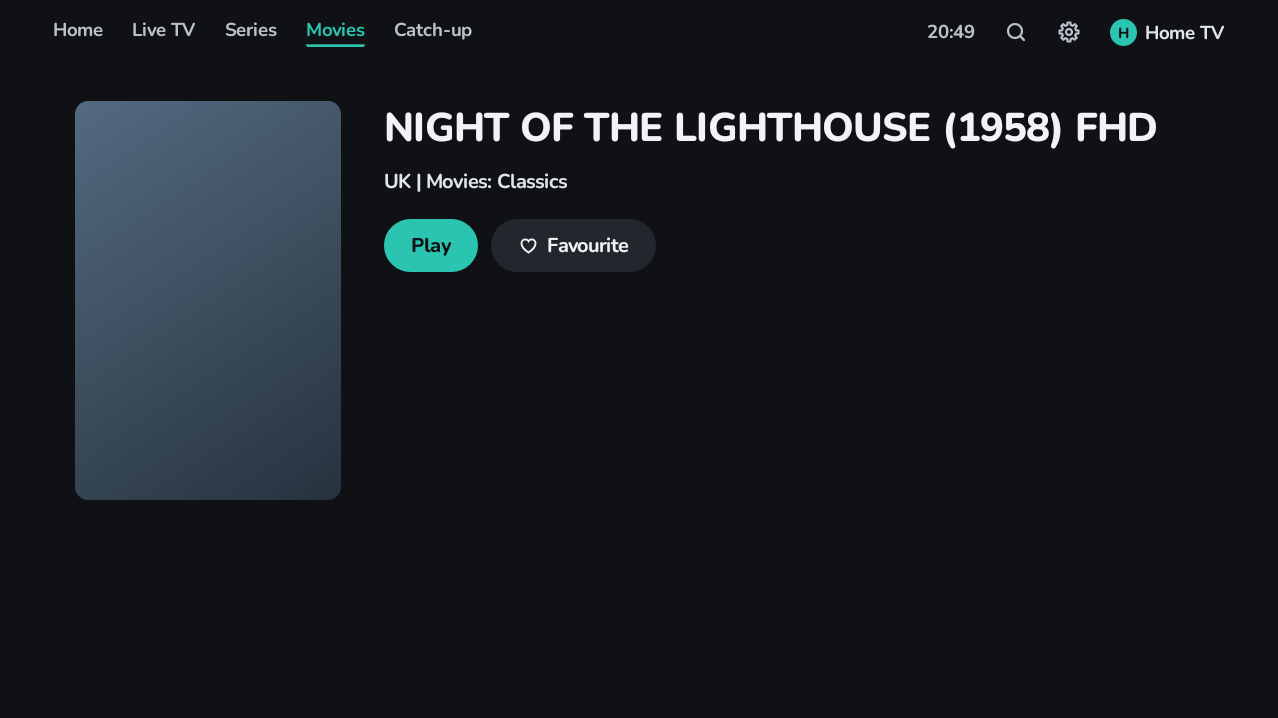
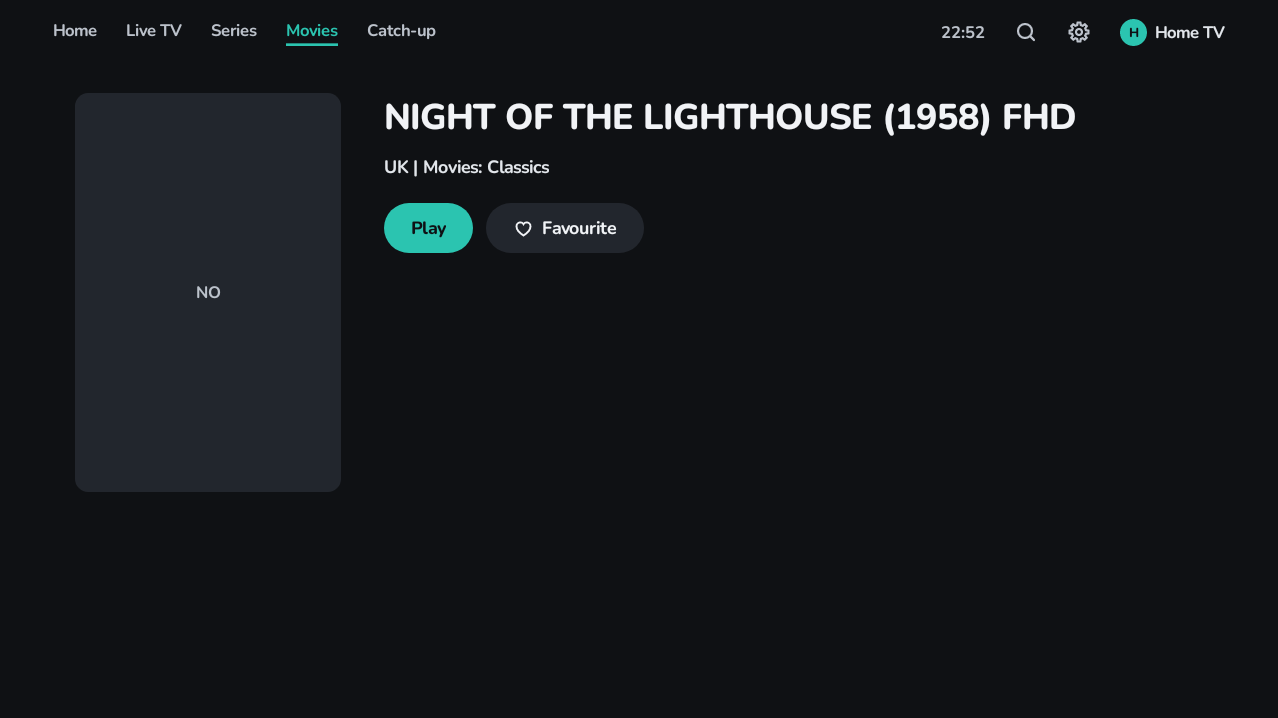
Top bar focus fill, smaller gap and board text, scrolling category names (1.13.2)
- Top bar: the item with focus is a pill filled with the accent colour,
  with no ring, as the film and series pages' buttons are. BarItem uses
  TvCard (transparent, accent when focused, ring = false), and its text
  and icons read LocalCardFocused for the accent's text colour. The
  playlist initial swaps its colours on the fill.
- The gap under the top bar is 22 board px (was 28): half way between
  the gap before the redesign and after it, measured on Home (the first
  heading at 94 px before, 109 px after, now about 101 px). All screens
  use TabScaffoldGap, so it stays the same everywhere.
- Category names on Live TV, Movies, Series and Catch-up use OneLine:
  cut short with "…", and scrolling while the row has focus.
- Board text (film and series pages, top bar): normal text is a step
  (1.12) smaller than the boards' sizes, and large text is the boards'
  size. The owner found the boards' size looked like large text.

Tests: TopBarFocusUiTest (the focused tab's edge and padding are the
accent colour; fails with the ring) and CategoryNameScrollUiTest (the
focused name is laid out wider than its row; fails without OneLine).
BoardTextScaleTest is updated for the new sizes.

Claude-Session: https://claude.ai/code/session_01XanGeKN99Wd1hmQc73eoBg

Changed region(s): [[0.061, 0.1226, 0.9155, 0.7047], [0.0305, 0.0306, 0.3662, 0.0919], [0.7324, 0.0306, 0.9765, 0.0613]]

diff --git a/app/src/main/java/com/biskyt/mytvplayer/ui/common/TopBar.kt b/app/src/main/java/com/biskyt/mytvplayer/ui/common/TopBar.kt
@@ -79,8 +79,8 @@ enum class Tab(@param:StringRes val label: Int) {
 
 /**
  * The top bar, as the design boards draw it (2026-11-05): the tabs as text, with the one shown in the accent colour
- * and underlined; then the VPN status, the clock, Search, Settings and the playlist switcher. Each item takes focus
- * with the app's usual ring.
+ * and underlined; then the VPN status, the clock, Search, Settings and the playlist switcher. The item with focus is
+ * filled with the accent colour, with no ring, as the film and series pages' buttons are.
  */
 @Composable
 fun TopBar(selected: Tab?) {
@@ -96,8 +96,8 @@ fun TopBar(selected: Tab?) {
     val hasCatchup by remember(active?.id) { active?.let { container.channels.observeHasCatchup(it.id) } ?: flowOf(false) }
         .collectAsState(initial = false)
     Row(
-        // The board's 40 and 22, less the room each item keeps for its focus ring.
-        Modifier.fillMaxWidth().height(48.bd).padding(horizontal = 40.bd - BAR_RING),
+        // The board's 40 and 22, less the room each item keeps around its text for its focus fill.
+        Modifier.fillMaxWidth().height(48.bd).padding(horizontal = 40.bd - BAR_PAD_H),
         verticalAlignment = Alignment.CenterVertically,
         horizontalArrangement = Arrangement.spacedBy(BAR_GAP)
     ) {
@@ -116,16 +116,20 @@ fun TopBar(selected: Tab?) {
         }
         Box(Modifier.weight(1f))
         settings?.takeIf { it.warnVpn }?.let { VpnStatus(showIp = it.showExternalIp) }
-        Clock(Modifier.padding(BAR_RING), BarText.current, Palette.textDim)
+        Clock(Modifier.padding(horizontal = BAR_PAD_H, vertical = BAR_PAD_V), BarText.current, Palette.textDim)
         BarItem({ nav.open(Screen.Search()) }) { BarIcon(AppIcons.Search, stringResource(R.string.common_search)) }
         BarItem({ nav.open(Screen.Settings) }) { BarIcon(AppIcons.Settings, stringResource(R.string.common_settings)) }
         if (active != null) {
             BarItem({ nav.open(Screen.Playlists) }) {
+                // On the accent fill, the initial's colours swap, so its circle still shows.
+                val focused = LocalCardFocused.current
+                val circle = if (focused) accent.onAccent else accent.color
+                val initial = if (focused) accent.color else accent.onAccent
                 Row(verticalAlignment = Alignment.CenterVertically, horizontalArrangement = Arrangement.spacedBy(6.bd)) {
-                    Box(Modifier.size(20.bd).clip(CircleShape).background(accent.color), contentAlignment = Alignment.Center) {
-                        Text(active.name.take(1).uppercase(), style = InitialText.current, color = accent.onAccent)
+                    Box(Modifier.size(20.bd).clip(CircleShape).background(circle), contentAlignment = Alignment.Center) {
+                        Text(active.name.take(1).uppercase(), style = InitialText.current, color = initial)
                     }
-                    Text(active.name, style = BarText.current, color = Palette.textMuted, maxLines = 1)
+                    Text(active.name, style = BarText.current, color = barContent(Palette.textMuted), maxLines = 1)
                 }
             }
         }
@@ -137,38 +141,49 @@ private val BarText = BoardStyle(14, 700)
 private val InitialText = BoardStyle(11, 800)
 private val VpnText = BoardStyle(13, 700)
 
-/** Room for the focus ring around a top bar item, taken back from the gap between items. */
-private val BAR_RING = 4.bd
-private val BAR_GAP = 22.bd - BAR_RING * 2
+/** Room around a top bar item's text for its focus fill, taken back from the gap between items. */
+private val BAR_PAD_H = 10.bd
+private val BAR_PAD_V = 4.bd
+private val BAR_GAP = 22.bd - BAR_PAD_H * 2
+
+/** A top bar item's text or icon colour: [normal], or the accent's text colour on its focus fill. */
+@Composable
+private fun barContent(normal: Color) = if (LocalCardFocused.current) LocalAccent.current.onAccent else normal
 
 /** A tab's name: the one shown in the accent colour, with a line under it. */
 @Composable
 private fun TabLabel(name: String, current: Boolean) {
-    val accent = LocalAccent.current.color
+    val colour = barContent(if (current) LocalAccent.current.color else Palette.textDim)
     Text(
         name,
         style = BarText.current,
-        color = if (current) accent else Palette.textDim,
+        color = colour,
         maxLines = 1,
         // Every tab has the line's room, so they all line up; only the current one draws it.
         modifier = Modifier.drawBehind {
-            if (current) drawRect(accent, Offset(0f, size.height - 2.bd.toPx()), Size(size.width, 2.bd.toPx()))
+            if (current) drawRect(colour, Offset(0f, size.height - 2.bd.toPx()), Size(size.width, 2.bd.toPx()))
         }.padding(bottom = 3.bd)
     )
 }
 
 @Composable
 private fun BarIcon(icon: ImageVector, label: String) =
-    Icon(icon, contentDescription = label, tint = Palette.textDim, modifier = Modifier.size(18.bd))
+    Icon(icon, contentDescription = label, tint = barContent(Palette.textDim), modifier = Modifier.size(18.bd))
 
 /**
- * A top bar item: drawn as it is, on nothing, and with the app's focus ring around it (a little padding, so the ring
- * does not touch it).
+ * A top bar item: drawn as it is, on nothing. With focus, it is a pill filled with the accent colour, with no ring, as
+ * the film and series pages' buttons are; its content reads that from [LocalCardFocused] (see [barContent]).
  */
 @Composable
 private fun BarItem(onClick: () -> Unit, content: @Composable () -> Unit) {
-    TvCard(onClick = onClick, shape = RoundedCornerShape(50), color = Color.Transparent, focusedColor = Color.Transparent) {
-        Box(Modifier.padding(horizontal = BAR_RING, vertical = BAR_RING)) { content() }
+    TvCard(
+        onClick = onClick,
+        shape = RoundedCornerShape(50),
+        color = Color.Transparent,
+        focusedColor = LocalAccent.current.color,
+        ring = false
+    ) {
+        Box(Modifier.padding(horizontal = BAR_PAD_H, vertical = BAR_PAD_V)) { content() }
     }
 }
 
@@ -187,7 +202,7 @@ private fun VpnStatus(showIp: Boolean) {
     val vertical = if (ip == null) 8.dp else 3.dp
     Row(
         if (connected) {
-            Modifier.padding(BAR_RING)
+            Modifier.padding(horizontal = BAR_PAD_H, vertical = BAR_PAD_V)
         } else {
             Modifier.clip(
                 RoundedCornerShape(50)
@@ -236,8 +251,11 @@ fun Clock(
     Text(formatTime(now), style = style, color = color, modifier = modifier)
 }
 
-/** Between the top bar and the screen below it: page content starts 76 board pixels down (see TopBar). */
-val TabScaffoldGap = 28.bd
+/**
+ * Between the top bar and the screen below it: page content starts 70 board pixels down (see TopBar). The boards say
+ * 76; the owner asked for half way between that and the gap before them (2026-11-05).
+ */
+val TabScaffoldGap = 22.bd
 
 /** On a page drawn behind the top bar (its art showing through), how far down its content must start: 0 without. */
 val LocalTopBarInset = compositionLocalOf { 0.dp }

diff --git a/app/src/test/java/com/biskyt/mytvplayer/ui/CategoryNameScrollUiTest.kt b/app/src/test/java/com/biskyt/mytvplayer/ui/CategoryNameScrollUiTest.kt
@@ -1,0 +1,74 @@
+package com.biskyt.mytvplayer.ui
+
+import androidx.compose.ui.semantics.SemanticsActions
+import androidx.compose.ui.semantics.getOrNull
+import androidx.compose.ui.test.SemanticsNodeInteraction
+import androidx.compose.ui.test.hasClickAction
+import androidx.compose.ui.test.hasText
+import androidx.compose.ui.test.performSemanticsAction
+import androidx.compose.ui.text.TextLayoutResult
+import com.biskyt.mytvplayer.testutil.Navigators
+import com.biskyt.mytvplayer.testutil.TestApp
+import com.biskyt.mytvplayer.testutil.createUiComposeRule
+import com.biskyt.mytvplayer.testutil.waitAdvancingClock
+import com.biskyt.mytvplayer.ui.common.CategoryColumn
+import com.biskyt.mytvplayer.ui.common.CategoryEntry
+import com.biskyt.mytvplayer.ui.theme.MyTvTheme
+import org.junit.Assert.assertFalse
+import org.junit.Assert.assertTrue
+import org.junit.Rule
+import org.junit.Test
+import org.junit.runner.RunWith
+import org.robolectric.RobolectricTestRunner
+import org.robolectric.annotation.Config
+
+/**
+ * A long category name (Live TV, Movies, Series and Catch-up all use [CategoryColumn]) is cut short with "…", and
+ * scrolls to show the rest while its row has focus.
+ */
+@RunWith(RobolectricTestRunner::class)
+@Config(sdk = [34], application = TestApp::class, qualifiers = "+w960dp-h540dp-tvdpi")
+class CategoryNameScrollUiTest {
+    @get:Rule val compose = createUiComposeRule()
+
+    @get:Rule(order = Navigators.ORDER)
+    val navigators = Navigators()
+
+    /** The name's own text layout, and the width of its row's text area. */
+    private fun name(): TextLayoutResult {
+        val layouts = mutableListOf<TextLayoutResult>()
+        compose.onNode(hasText(LONG), useUnmergedTree = true).fetchSemanticsNode()
+            .config.getOrNull(SemanticsActions.GetTextLayoutResult)?.action?.invoke(layouts)
+        return layouts.single()
+    }
+
+    private fun row(): SemanticsNodeInteraction = compose.onNode(hasText(LONG) and hasClickAction())
+
+    @Test
+    fun `a long name is cut short, and laid out in full to scroll while its row has focus`() {
+        compose.setContent {
+            MyTvTheme {
+                CategoryColumn(
+                    entries = listOf(CategoryEntry("short", "News"), CategoryEntry("long", LONG)),
+                    // Selected: coming into the column, focus goes to the selected entry.
+                    selected = "long",
+                    onFocus = {},
+                    onSelect = {}
+                )
+            }
+        }
+        compose.waitAdvancingClock(0) { runCatching { name() }.isSuccess }
+        assertTrue("cut short with … without focus", name().hasVisualOverflow)
+
+        row().performSemanticsAction(SemanticsActions.RequestFocus)
+        compose.waitAdvancingClock(0) { !name().hasVisualOverflow }
+        // Laid out at its full width, wider than the column, for the scroll to show the rest.
+        val rowWidth = row().fetchSemanticsNode().size.width
+        assertFalse(name().hasVisualOverflow)
+        assertTrue("${name().size.width} px wide, in a row of $rowWidth px", name().size.width > rowWidth)
+    }
+
+    private companion object {
+        const val LONG = "UK | ENTERTAINMENT AND DOCUMENTARIES FROM AROUND THE WORLD"
+    }
+}

diff --git a/app/src/test/java/com/biskyt/mytvplayer/ui/TopBarFocusUiTest.kt b/app/src/test/java/com/biskyt/mytvplayer/ui/TopBarFocusUiTest.kt
@@ -1,0 +1,70 @@
+package com.biskyt.mytvplayer.ui
+
+import android.graphics.Bitmap
+import android.graphics.Canvas
+import androidx.activity.ComponentActivity
+import androidx.compose.runtime.CompositionLocalProvider
+import androidx.compose.ui.graphics.Color
+import androidx.compose.ui.graphics.toArgb
+import androidx.compose.ui.semantics.SemanticsActions
+import androidx.compose.ui.test.hasClickAction
+import androidx.compose.ui.test.hasText
+import androidx.compose.ui.test.performSemanticsAction
+import com.biskyt.mytvplayer.testutil.Navigators
+import com.biskyt.mytvplayer.testutil.TestApp
+import com.biskyt.mytvplayer.testutil.createUiComposeRule
+import com.biskyt.mytvplayer.testutil.waitAdvancingClock
+import com.biskyt.mytvplayer.ui.common.Tab
+import com.biskyt.mytvplayer.ui.common.TopBar
+import com.biskyt.mytvplayer.ui.theme.LocalAccent
+import com.biskyt.mytvplayer.ui.theme.MyTvTheme
+import org.junit.Assert.assertEquals
+import org.junit.Rule
+import org.junit.Test
+import org.junit.runner.RunWith
+import org.robolectric.RobolectricTestRunner
+import org.robolectric.annotation.Config
+
+/** A top bar item with focus is filled with the accent colour, with no ring, as the film and series pages' buttons are. */
+@RunWith(RobolectricTestRunner::class)
+@Config(sdk = [34], application = TestApp::class, qualifiers = "+w960dp-h540dp-tvdpi")
+class TopBarFocusUiTest {
+    @get:Rule val compose = createUiComposeRule<ComponentActivity>()
+
+    @get:Rule(order = Navigators.ORDER)
+    val navigators = Navigators()
+
+    @Test
+    fun `the item with focus is filled with the accent colour, to its edge`() {
+        val navigator = navigators.new(Screen.Home)
+        var accent = Color.Unspecified
+        compose.setContent {
+            MyTvTheme {
+                accent = LocalAccent.current.color
+                CompositionLocalProvider(LocalNavigator provides navigator) { TopBar(Tab.HOME) }
+            }
+        }
+        // Not the current tab: its text is not in the accent colour.
+        val live = compose.onNode(hasText("Live TV") and hasClickAction())
+        live.performSemanticsAction(SemanticsActions.RequestFocus)
+        // The test's frame clock moves on, so the item recomposes and redraws with its focus.
+        compose.mainClock.advanceTimeBy(FRAME_MS * 10)
+        compose.waitAdvancingClock { true }
+
+        // Drawn here: captureToImage waits for a frame that the paused main looper never draws.
+        val view = compose.activity.window.decorView
+        val screen = Bitmap.createBitmap(view.width, view.height, Bitmap.Config.ARGB_8888)
+        compose.runOnUiThread { view.draw(Canvas(screen)) }
+        val node = live.fetchSemanticsNode()
+        val middle = (node.positionInRoot.y + node.size.height / 2).toInt()
+        // At its edge (where a ring would be) and in the room before the text: the accent fill.
+        listOf(1, 6).forEach { x ->
+            val pixel = Color(screen.getPixel(node.positionInRoot.x.toInt() + x, middle))
+            assertEquals("pixel $x across", accent.toArgb(), pixel.toArgb())
+        }
+    }
+
+    private companion object {
+        const val FRAME_MS = 20L
+    }
+}

diff --git a/app/src/main/java/com/biskyt/mytvplayer/ui/theme/Board.kt b/app/src/main/java/com/biskyt/mytvplayer/ui/theme/Board.kt
@@ -11,7 +11,7 @@ import androidx.compose.ui.unit.sp
 /**
  * Sizes copied from the design boards (the film and series pages, the top bar). A board is 960 x 540: a 1080p TV in
  * dp. The app lays out on a canvas 1280 wide (see MyTvTheme), so each board size is 4/3 of its value here. The boards'
- * sizes are used as they are, so that the screens match them exactly.
+ * sizes are used as they are, so that the screens match them exactly, except text (see [BoardStyle]).
  */
 private const val BOARD = 1280f / 960f
 
@@ -31,12 +31,13 @@ internal fun boardText(size: Int, weight: Int, lineHeight: Float? = null, scale:
 )
 
 /**
- * A board's text style, in the text colour (give another colour on the Text), and a step larger when Settings › large
- * text is on: the boards' sizes are for normal text. Both are made once.
+ * A board's text style, in the text colour (give another colour on the Text). Normal text is a step smaller than the
+ * board's size, and Settings › large text is the board's size: on a TV, the boards' sizes looked like large text, and
+ * a step larger again was far too large (the owner, 2026-11-05). Both are made once.
  */
 class BoardStyle(size: Int, weight: Int, lineHeight: Float? = null) {
-    private val normal = boardText(size, weight, lineHeight)
-    private val large = boardText(size, weight, lineHeight, LARGE_TEXT)
+    private val normal = boardText(size, weight, lineHeight, 1f / LARGE_TEXT)
+    private val large = boardText(size, weight, lineHeight)
 
     val current: TextStyle @Composable get() = if (LocalLargeText.current) large else normal
 }

diff --git a/app/src/test/java/com/biskyt/mytvplayer/ui/theme/BoardTextScaleTest.kt b/app/src/test/java/com/biskyt/mytvplayer/ui/theme/BoardTextScaleTest.kt
@@ -13,7 +13,7 @@ import org.junit.runner.RunWith
 import org.robolectric.RobolectricTestRunner
 import org.robolectric.annotation.Config
 
-/** The boards' pages keep Settings › large text: their text is a step larger when it is on, and as drawn when off. */
+/** The boards' text: a step smaller than drawn for normal text, and as drawn with Settings › large text. */
 @RunWith(RobolectricTestRunner::class)
 @Config(sdk = [34], application = PlainApp::class, qualifiers = "+w960dp-h540dp-tvdpi")
 class BoardTextScaleTest {
@@ -34,14 +34,14 @@ class BoardTextScaleTest {
     }
 
     @Test
-    fun `with large text, the boards' text is larger`() {
+    fun `with large text, the boards' sizes are kept`() {
         val (drawn, shown) = heights(large = true)
-        assertTrue("$shown > $drawn", shown > drawn)
+        assertEquals(drawn, shown)
     }
 
     @Test
-    fun `without it, the boards' sizes are kept`() {
+    fun `without it, the boards' text is a step smaller`() {
         val (drawn, shown) = heights(large = false)
-        assertEquals(drawn, shown)
+        assertTrue("$shown < $drawn", shown < drawn)
     }
 }

diff --git a/app/src/main/java/com/biskyt/mytvplayer/ui/common/CategoryColumn.kt b/app/src/main/java/com/biskyt/mytvplayer/ui/common/CategoryColumn.kt
@@ -239,12 +239,11 @@ fun <F> CategoryColumn(
                     }
             ) {
                 Row(Modifier.padding(horizontal = 14.dp, vertical = 10.dp), verticalAlignment = Alignment.CenterVertically) {
-                    Text(
+                    // A long name scrolls while the row has focus.
+                    OneLine(
                         label,
                         style = MaterialTheme.typography.titleSmall,
                         color = if (isSelected) LocalAccent.current.color else Palette.text,
-                        maxLines = 1,
-                        overflow = TextOverflow.Ellipsis,
                         modifier = Modifier.weight(1f)
                     )
                     if (category?.restricted == true) RestrictedMark(Modifier.padding(end = 6.dp))

diff --git a/app/src/main/java/com/biskyt/mytvplayer/ui/theme/Theme.kt b/app/src/main/java/com/biskyt/mytvplayer/ui/theme/Theme.kt
@@ -40,7 +40,10 @@ object Palette {
     val danger = Color(0xFFE58080)
 }
 
-/** Settings › large text: the boards' pages (see Board.kt) scale their text up by [LARGE_TEXT] when it is on. */
+/**
+ * Settings › large text: the boards' pages (see Board.kt) show their text at the boards' sizes when it is on, and a
+ * step smaller when it is off.
+ */
 val LocalLargeText = staticCompositionLocalOf { false }
 
 @Immutable

diff --git a/CHANGELOG.md b/CHANGELOG.md
@@ -3,6 +3,12 @@
 Each version's section becomes its GitHub release notes, so it is written for the people using the app: plain
 English, one bullet of one sentence per change.
 
+## 1.13.2
+- Long category names on Live TV, Movies, Series and Catch-up scroll to show the rest while you are on them.
+- In the top bar, the item you are on is a pill filled with your accent colour, as on the film and series pages.
+- Pages start a little closer to the top bar.
+- The text on the film and series pages and in the top bar is smaller, and large text is now the size that normal text was.
+
 ## 1.13.1
 - The external IP in the top bar tries again after 10 seconds when the lookup service answers too slowly.
 - Setting a parental PIN no longer hides restricted channels, films and series for a moment.
